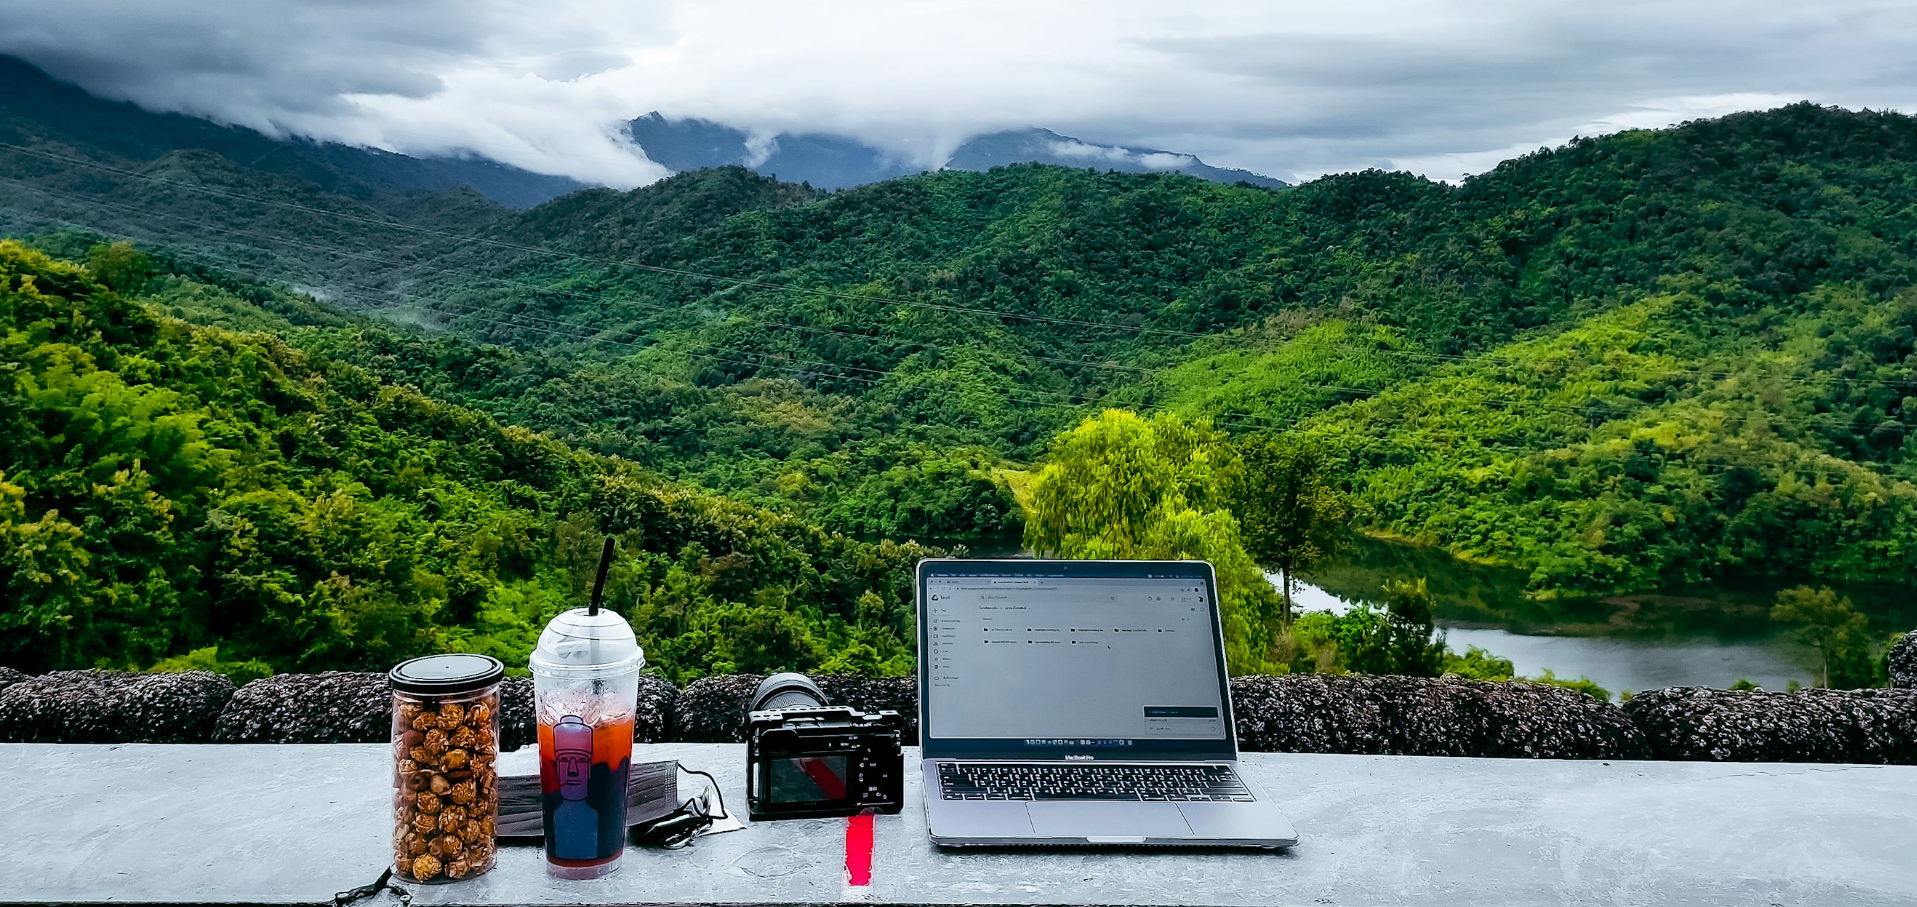
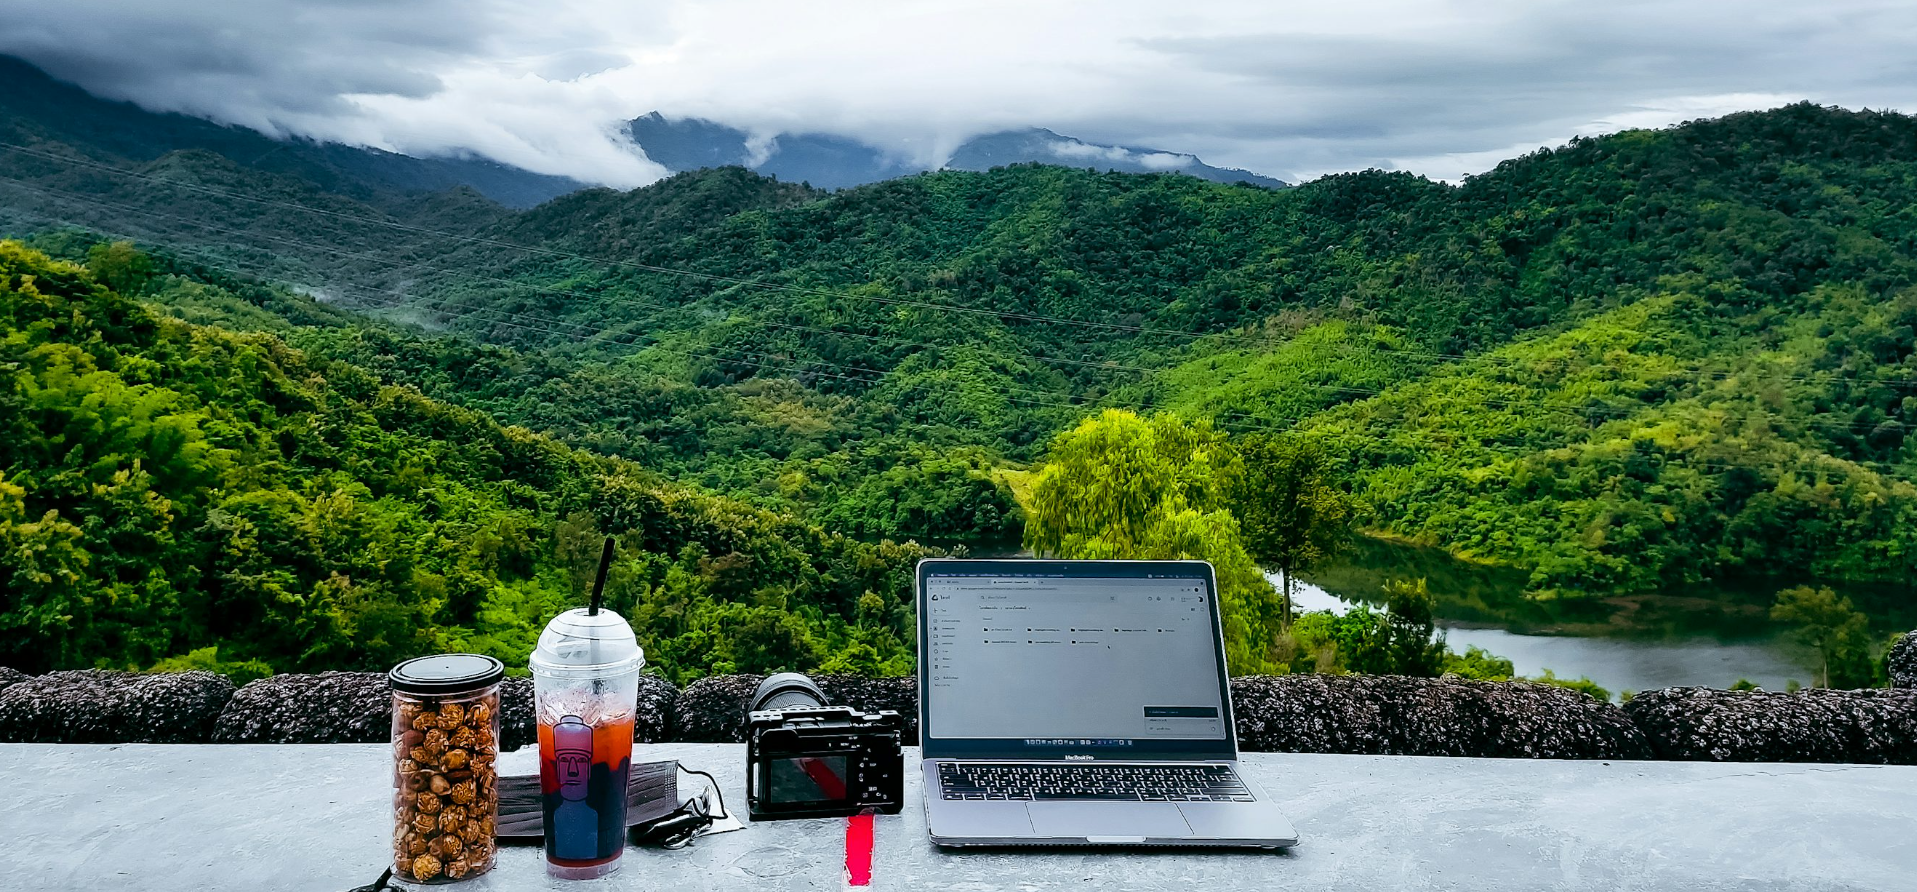
final dest

diff --git a/shipyard.html b/shipyard.html
@@ -40,6 +40,7 @@
 
         </div>
 
+
         <div class="kalender-gedeelte">
             <div class="kalender-foto">
                 <img class="kalender-img" src="img/connect-connect.png" alt="foto site kalendersysteem"/>
@@ -52,15 +53,39 @@
             </div>
         </div>
 
+        <div class="kalender-gedeelte">
+            <div class="kalender-tekst">
+                <h2>Corrosion Prediction Model & Data Visualisation</h2>
+                <p>Developed data visualisation and a corrosion prediction model using Python and machine learning, 
+               and built interactive dashboards in Microsoft Power BI for data analysis and reporting. </p>    
+            </div>
+
+            <div class="kalender-foto">
+                <img class="kalender-img" src="img/connect-connect.png" alt="foto site kalendersysteem"/>
+            </div>
+        </div>
+
         <div class="account-gedeelte">
+            <div class="account-foto">
+                <img class="account-img" src="img/bep_notebook.png" alt="accountpagina foto"/>
+            </div>
+
             <div class="account-tekst">
                 <h2>Flask Web Application</h2>
                 <p>Created a Flask-based web app to view corrosion data visualisations and statistics, enabling interactive 
                and accessible insights for stakeholders.</p>
             </div>
+        </div>
 
-            <div class="account-foto">
-                <img class="account-img" src="img/bep_notebook.png" alt="accountpagina foto"/>
+
+        <div class="laatste-gedeelte">
+            <div class="laatste-tekst">
+                <h2>Technologies Used</h2>
+                <p>Stack: Python, SQL, PowerBI, Flask, Git, Machine Learning, HTML, CSS, etc.</p>
+            </div>
+
+            <div class="laatste-foto">
+                <img class="laatste-img" src="img/tech-stack.png" alt="foto site inlogsysteem"/>
             </div>
 
         </div>
